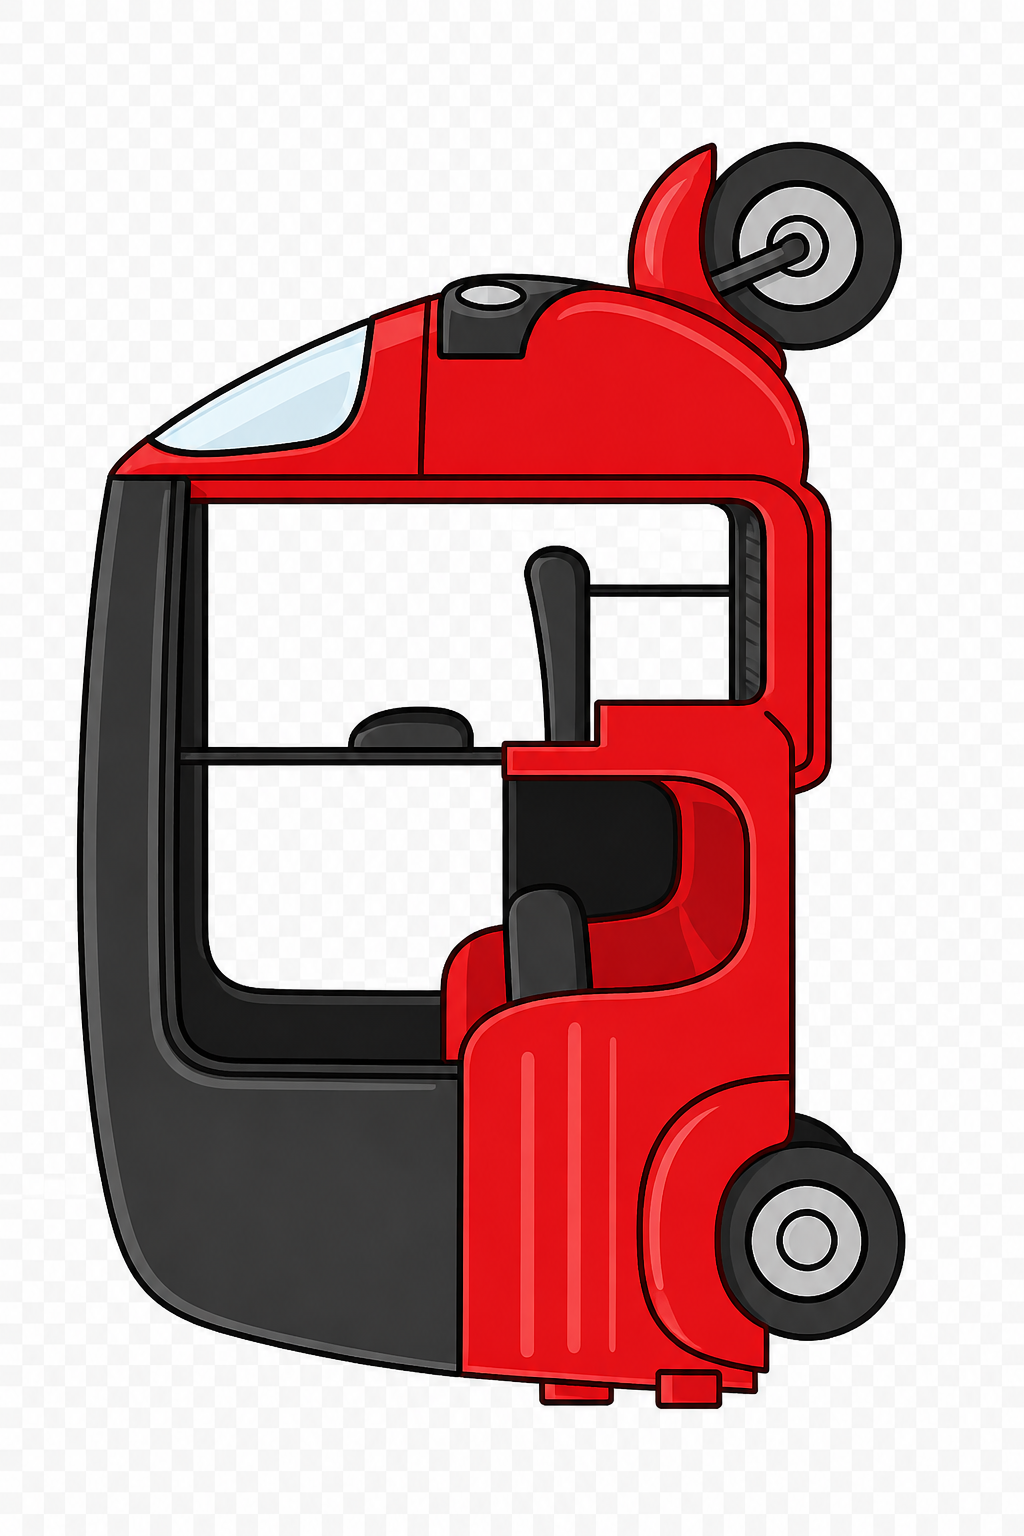
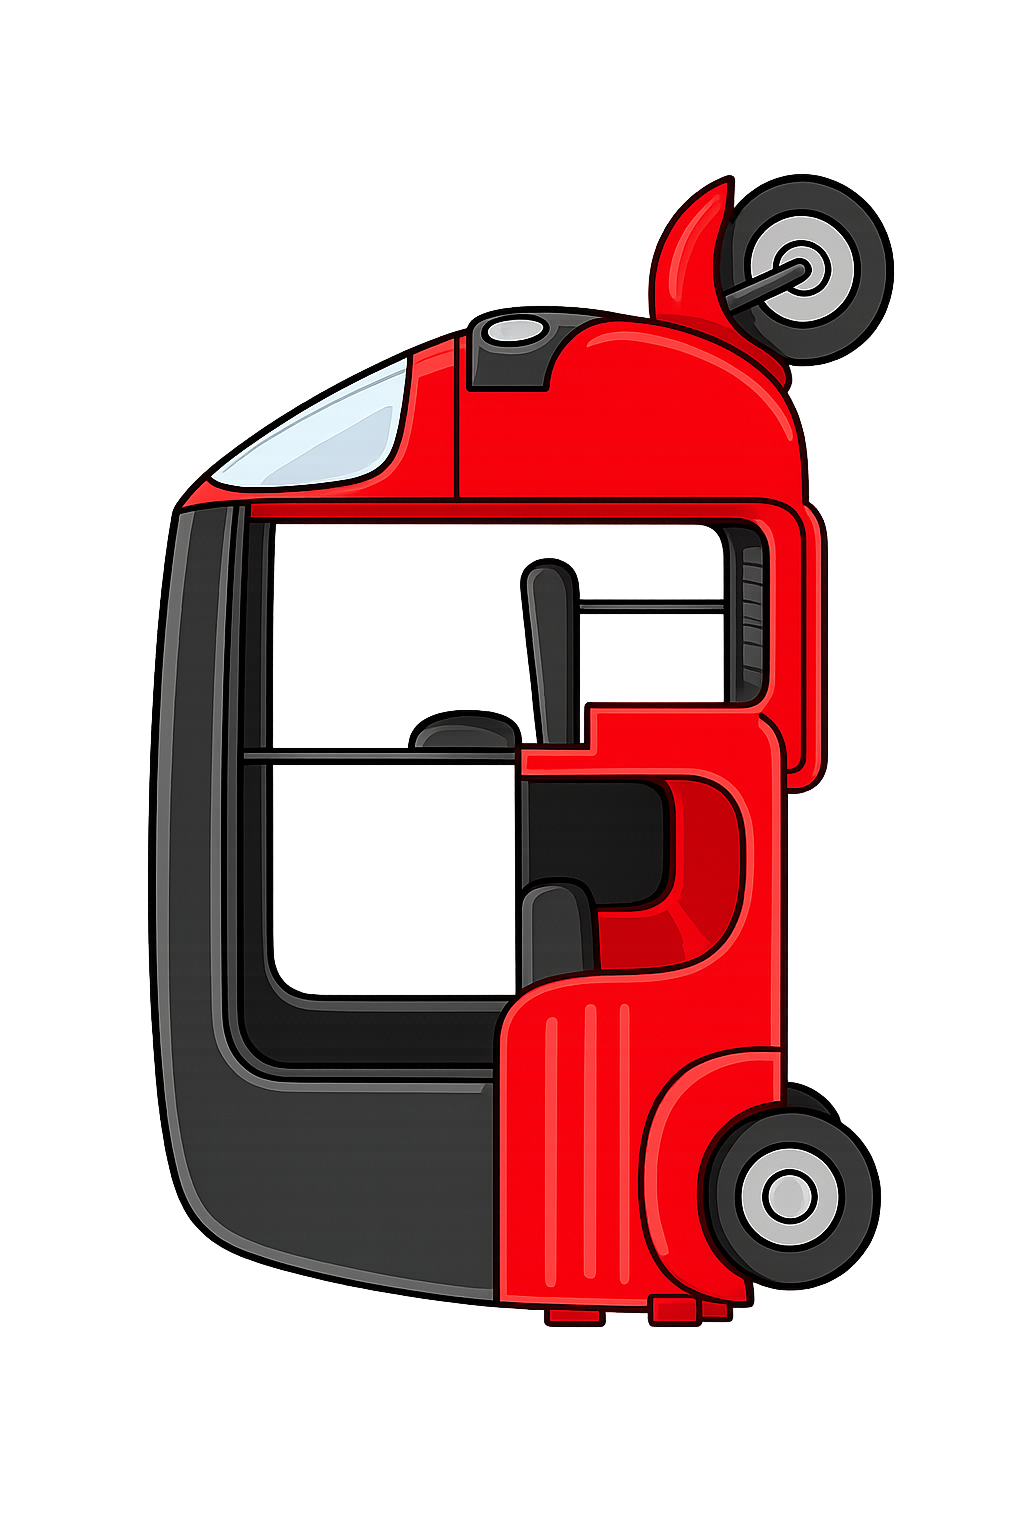
Cambios y animaciones MapaR sin sonido ni direcciones

Changed region(s): [[0.0625, 0.0938, 0.9062, 0.9375]]

diff --git a/frontend/MapaR/mapar.js b/frontend/MapaR/mapar.js
@@ -19,6 +19,7 @@ let activeRouteName = null;
 const defaultPanelContent = maprPanelContent.innerHTML;
 const routeNames = {
   municipalidad: "Municipalidad de Retalhuleu",
+  renap: "Registro Nacional de las Personas",
   pnc: "Policía Nacional Civil"
 };
 
@@ -28,27 +29,46 @@ const routeFootprintPoints = {
     { x: 1468, y: 732 },
     { x: 1541, y: 808 }
   ],
-  pnc: [
-    { x: 1521, y: 676 },
-    { x: 1580, y: 605 },
-    { x: 1515, y: 508 },
-    { x: 1446, y: 560 },
-    { x: 1327, y: 412 },
-    { x: 1284, y: 325 },
-    { x: 1258, y: 234 },
-    { x: 1218, y: 107 },
-    { x: 1321, y: 72 }
+  renap: [
+    { x: 1525, y: 671 },
+    { x: 1584, y: 603 },
+    { x: 1519, y: 506 },
+    { x: 1448, y: 557 },
+    { x: 1329, y: 409 },
+    { x: 1286, y: 324 },
+    { x: 1205, y: 342 },
+    { x: 730, y: 398 },
+    { x: 635, y: 443 },
+    { x: 573, y: 497 }
+  ]
+};
+
+const routeSegmentSprites = {
+  renap: [
+    "huellas",
+    "tucUpLeft",
+    "tucLeft",
+    "tucUpRight",
+    "tucUpRight",
+    "tucLeft",
+    "tucLeft",
+    "tucLeft",
+    "tucLeft"
   ]
 };
 
 const footprintImages = {
-  up: "../assets/images/huellas%20sin%20fondo%20hacia%20arriba.png",
-  down: "../assets/images/huellas%20sin%20fondo%20abajo.png",
-  right: "../assets/images/huellas%20sin%20fondo%20derecha.png",
-  left: "../assets/images/huellas%20sin%20fondo%20izquierda.png"
+  up: "Imagenes-MapaR/huellas%20sin%20fondo%20hacia%20arriba.png",
+  down: "Imagenes-MapaR/huellas%20sin%20fondo%20abajo.png",
+  right: "Imagenes-MapaR/huellas%20sin%20fondo%20derecha.png",
+  left: "Imagenes-MapaR/huellas%20sin%20fondo%20izquierda.png",
+  tucUpLeft: "Imagenes-MapaR/tuc%20tuc%20mirando%20arriba%20izquierda.png",
+  tucLeft: "Imagenes-MapaR/tuc%20tuc%20izquierda.png",
+  tucUpRight: "Imagenes-MapaR/tuctuc%20derecha%20arriba.png",
+  tucRight: "Imagenes-MapaR/tuctuc%20derecha.png"
 };
 
-const footprintSize = 50;
+const footprintSize = 40;
 const footprintRevealTime = 5000;
 
 function getSvgPoint(event) {
@@ -86,6 +106,7 @@ function getSegmentDirection(start, end) {
 
 function renderRouteFootprints(routeName) {
   const points = routeFootprintPoints[routeName];
+  const segmentSprites = routeSegmentSprites[routeName] || [];
   const footprints = [];
 
   if (!points) {
@@ -101,6 +122,10 @@ function renderRouteFootprints(routeName) {
     const length = Math.hypot(dx, dy);
     const steps = Math.max(1, Math.floor(length / 40));
     const direction = getSegmentDirection(start, end);
+    const spriteKey = segmentSprites[index];
+    const sprite = spriteKey === "huellas" || !spriteKey
+      ? footprintImages[direction]
+      : footprintImages[spriteKey];
 
     for (let step = 1; step <= steps; step += 1) {
       const ratio = step / (steps + 1);
@@ -108,8 +133,8 @@ function renderRouteFootprints(routeName) {
       const y = start.y + dy * ratio;
       const footprint = createSvgElement("image", {
         class: "map-route-footprint",
-        href: footprintImages[direction],
-        "xlink:href": footprintImages[direction],
+        href: sprite,
+        "xlink:href": sprite,
         x: Math.round(x - footprintSize / 2),
         y: Math.round(y - footprintSize / 2),
         width: footprintSize,

diff --git a/frontend/MapaR/index.html b/frontend/MapaR/index.html
@@ -71,7 +71,7 @@
       <button type="button" data-map-route="municipalidad">Municipalidad de Retalhuleu</button>
       <button type="button">Polic&iacute;a Municipal de Tr&aacute;nsito</button>
       <button type="button" data-map-route="pnc">Polic&iacute;a Nacional Civil</button>
-      <button type="button">Registro Nacional de las Personas</button>
+      <button type="button" data-map-route="renap">Registro Nacional de las Personas</button>
       <button type="button">Instituto Guatemalteco de Seguridad Social</button>
       <button type="button">Tribunal Supremo Electoral</button>
 
@@ -87,6 +87,6 @@
     </section>
   </main>
 
-  <script src="mapar.js?v=20260608-debug-panel-nodes"></script>
+  <script src="mapar.js?v=20260608-renap-final-sprites"></script>
 </body>
 </html>
